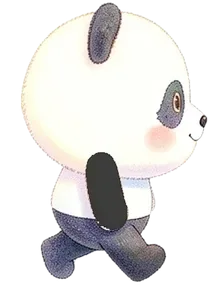
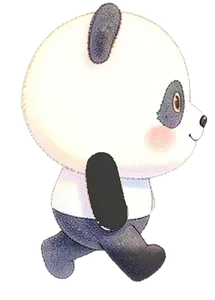
Miniroom: panda side walk shows crossing legs (far leg dark, near leg light)

Changed region(s): [[0.5302, 0.81, 0.7814, 0.93], [0.2512, 0.81, 0.4186, 0.9], [0.1953, 0.84, 0.2233, 0.87]]

diff --git a/public/js/views.js b/public/js/views.js
@@ -35,7 +35,7 @@ const MR_BODY = {
   '🐰': {"w": 184, "h": 300, "img": {"f0": "img/room/c-1f430-f0.webp?v=1126c", "fa": "img/room/c-1f430-fa.webp?v=1126c", "fb": "img/room/c-1f430-fb.webp?v=1126c", "s0": "img/room/c-1f430-s0.webp?v=1126c", "sa": "img/room/c-1f430-sa.webp?v=1126c", "sb": "img/room/c-1f430-sb.webp?v=1126c", "sc": "img/room/c-1f430-sc.webp?v=1126c", "b0": "img/room/c-1f430-b0.webp?v=1126c", "ba": "img/room/c-1f430-ba.webp?v=1126c", "bb": "img/room/c-1f430-bb.webp?v=1126c"}, "fit": [0.512, 0.325, 0.845, 0.514, 0.664], "head": {"front": [0.512, 0.845], "side": [0.546, 0.849], "back": [0.514, 0.841]}, "eyes": [0.314, 0.511, 0.693, 0.51, 0.036], "hand": {"front": [0.932, 0.81], "side": [0.707, 0.81], "back": [0.902, 0.81]}},
   '🐻': {"w": 223, "h": 300, "img": {"f0": "img/room/c-1f43b-f0.webp?v=1126c", "fa": "img/room/c-1f43b-fa.webp?v=1126c", "fb": "img/room/c-1f43b-fb.webp?v=1126c", "s0": "img/room/c-1f43b-s0.webp?v=1126c", "sa": "img/room/c-1f43b-sa.webp?v=1126c", "sb": "img/room/c-1f43b-sb.webp?v=1126c", "sc": "img/room/c-1f43b-sc.webp?v=1126c", "b0": "img/room/c-1f43b-b0.webp?v=1126c", "ba": "img/room/c-1f43b-ba.webp?v=1126c", "bb": "img/room/c-1f43b-bb.webp?v=1126c"}, "fit": [0.479, 0.001, 0.91, 0.374, 0.654], "head": {"front": [0.479, 0.91], "side": [0.484, 0.907], "back": [0.486, 0.896]}, "eyes": [0.311, 0.383, 0.694, 0.379, 0.048], "hand": {"front": [0.918, 0.769], "side": [0.687, 0.769], "back": [0.885, 0.769]}},
   '🦊': {"w": 238, "h": 300, "img": {"f0": "img/room/c-1f98a-f0.webp?v=1126c", "fa": "img/room/c-1f98a-fa.webp?v=1126c", "fb": "img/room/c-1f98a-fb.webp?v=1126c", "s0": "img/room/c-1f98a-s0.webp?v=1126c", "sa": "img/room/c-1f98a-sa.webp?v=1126c", "sb": "img/room/c-1f98a-sb.webp?v=1126c", "sc": "img/room/c-1f98a-sc.webp?v=1126c", "b0": "img/room/c-1f98a-b0.webp?v=1126c", "ba": "img/room/c-1f98a-ba.webp?v=1126c", "bb": "img/room/c-1f98a-bb.webp?v=1126c"}, "fit": [0.529, 0.144, 0.827, 0.45, 0.68], "head": {"front": [0.529, 0.827], "side": [0.613, 0.743], "back": [0.529, 0.827]}, "eyes": [0.386, 0.446, 0.685, 0.44, 0.029], "hand": {"front": [0.874, 0.78], "side": [0.664, 0.78], "back": [0.841, 0.78]}},
-  '🐼': {"w": 229, "h": 300, "img": {"f0": "img/room/c-1f43c-f0.webp?v=1126c", "fa": "img/room/c-1f43c-fa.webp?v=1126c", "fb": "img/room/c-1f43c-fb.webp?v=1126c", "s0": "img/room/c-1f43c-s0.webp?v=1126c", "sa": "img/room/c-1f43c-sa.webp?v=1126c", "sb": "img/room/c-1f43c-sb.webp?v=1126c", "sc": "img/room/c-1f43c-sc.webp?v=1126c", "b0": "img/room/c-1f43c-b0.webp?v=1126c", "ba": "img/room/c-1f43c-ba.webp?v=1126c", "bb": "img/room/c-1f43c-bb.webp?v=1126c"}, "fit": [0.519, 0.041, 0.879, 0.376, 0.621], "head": {"front": [0.519, 0.879], "side": [0.539, 0.879], "back": [0.521, 0.876]}, "eyes": [0.351, 0.377, 0.672, 0.377, 0.04], "hand": {"front": [0.932, 0.759], "side": [0.69, 0.759], "back": [0.899, 0.759]}},
+  '🐼': {"w": 229, "h": 300, "img": {"f0": "img/room/c-1f43c-f0.webp?v=1126c", "fa": "img/room/c-1f43c-fa.webp?v=1126c", "fb": "img/room/c-1f43c-fb.webp?v=1126c", "s0": "img/room/c-1f43c-s0.webp?v=1126c", "sa": "img/room/c-1f43c-sa.webp?v=1126c", "sb": "img/room/c-1f43c-sb.webp?v=1126d", "sc": "img/room/c-1f43c-sc.webp?v=1126d", "b0": "img/room/c-1f43c-b0.webp?v=1126c", "ba": "img/room/c-1f43c-ba.webp?v=1126c", "bb": "img/room/c-1f43c-bb.webp?v=1126c"}, "fit": [0.519, 0.041, 0.879, 0.376, 0.621], "head": {"front": [0.519, 0.879], "side": [0.539, 0.879], "back": [0.521, 0.876]}, "eyes": [0.351, 0.377, 0.672, 0.377, 0.04], "hand": {"front": [0.932, 0.759], "side": [0.69, 0.759], "back": [0.899, 0.759]}},
   '🐯': {"w": 237, "h": 300, "img": {"f0": "img/room/c-1f42f-f0.webp?v=1126c", "fa": "img/room/c-1f42f-fa.webp?v=1126c", "fb": "img/room/c-1f42f-fb.webp?v=1126c", "s0": "img/room/c-1f42f-s0.webp?v=1126c", "sa": "img/room/c-1f42f-sa.webp?v=1126c", "sb": "img/room/c-1f42f-sb.webp?v=1126c", "sc": "img/room/c-1f42f-sc.webp?v=1126c", "b0": "img/room/c-1f42f-b0.webp?v=1126c", "ba": "img/room/c-1f42f-ba.webp?v=1126c", "bb": "img/room/c-1f42f-bb.webp?v=1126c"}, "fit": [0.514, 0.031, 0.924, 0.361, 0.657], "head": {"front": [0.514, 0.924], "side": [0.498, 0.86], "back": [0.517, 0.924]}, "eyes": [0.354, 0.368, 0.685, 0.361, 0.052], "hand": {"front": [0.885, 0.782], "side": [0.684, 0.782], "back": [0.854, 0.782]}},
   '🐨': {"w": 276, "h": 300, "img": {"f0": "img/room/c-1f428-f0.webp?v=1126c", "fa": "img/room/c-1f428-fa.webp?v=1126c", "fb": "img/room/c-1f428-fb.webp?v=1126c", "s0": "img/room/c-1f428-s0.webp?v=1126c", "sa": "img/room/c-1f428-sa.webp?v=1126c", "sb": "img/room/c-1f428-sb.webp?v=1126c", "sc": "img/room/c-1f428-sc.webp?v=1126c", "b0": "img/room/c-1f428-b0.webp?v=1126c", "ba": "img/room/c-1f428-ba.webp?v=1126c", "bb": "img/room/c-1f428-bb.webp?v=1126c"}, "fit": [0.495, 0.079, 0.619, 0.4, 0.628], "head": {"front": [0.495, 0.619], "side": [0.629, 0.543], "back": [0.495, 0.615]}, "eyes": [0.351, 0.403, 0.637, 0.401, 0.027], "hand": {"front": [0.774, 0.791], "side": [0.573, 0.791], "back": [0.732, 0.791]}},
   '🐸': {"w": 316, "h": 300, "img": {"f0": "img/room/c-1f438-f0.webp?v=1126c", "fa": "img/room/c-1f438-fa.webp?v=1126c", "fb": "img/room/c-1f438-fb.webp?v=1126c", "s0": "img/room/c-1f438-s0.webp?v=1126c", "sa": "img/room/c-1f438-sa.webp?v=1126c", "sb": "img/room/c-1f438-sb.webp?v=1126c", "sc": "img/room/c-1f438-sc.webp?v=1126c", "b0": "img/room/c-1f438-b0.webp?v=1126c", "ba": "img/room/c-1f438-ba.webp?v=1126c", "bb": "img/room/c-1f438-bb.webp?v=1126c"}, "fit": [0.495, -0.102, 0.635, 0.132, 0.645], "head": {"front": [0.495, 0.635], "side": [0.53, 0.267], "back": [0.482, 0.672]}, "eyes": [0.281, 0.114, 0.714, 0.114, 0.06], "hand": {"front": [0.839, 0.754], "side": [0.613, 0.754], "back": [0.794, 0.754]}},
